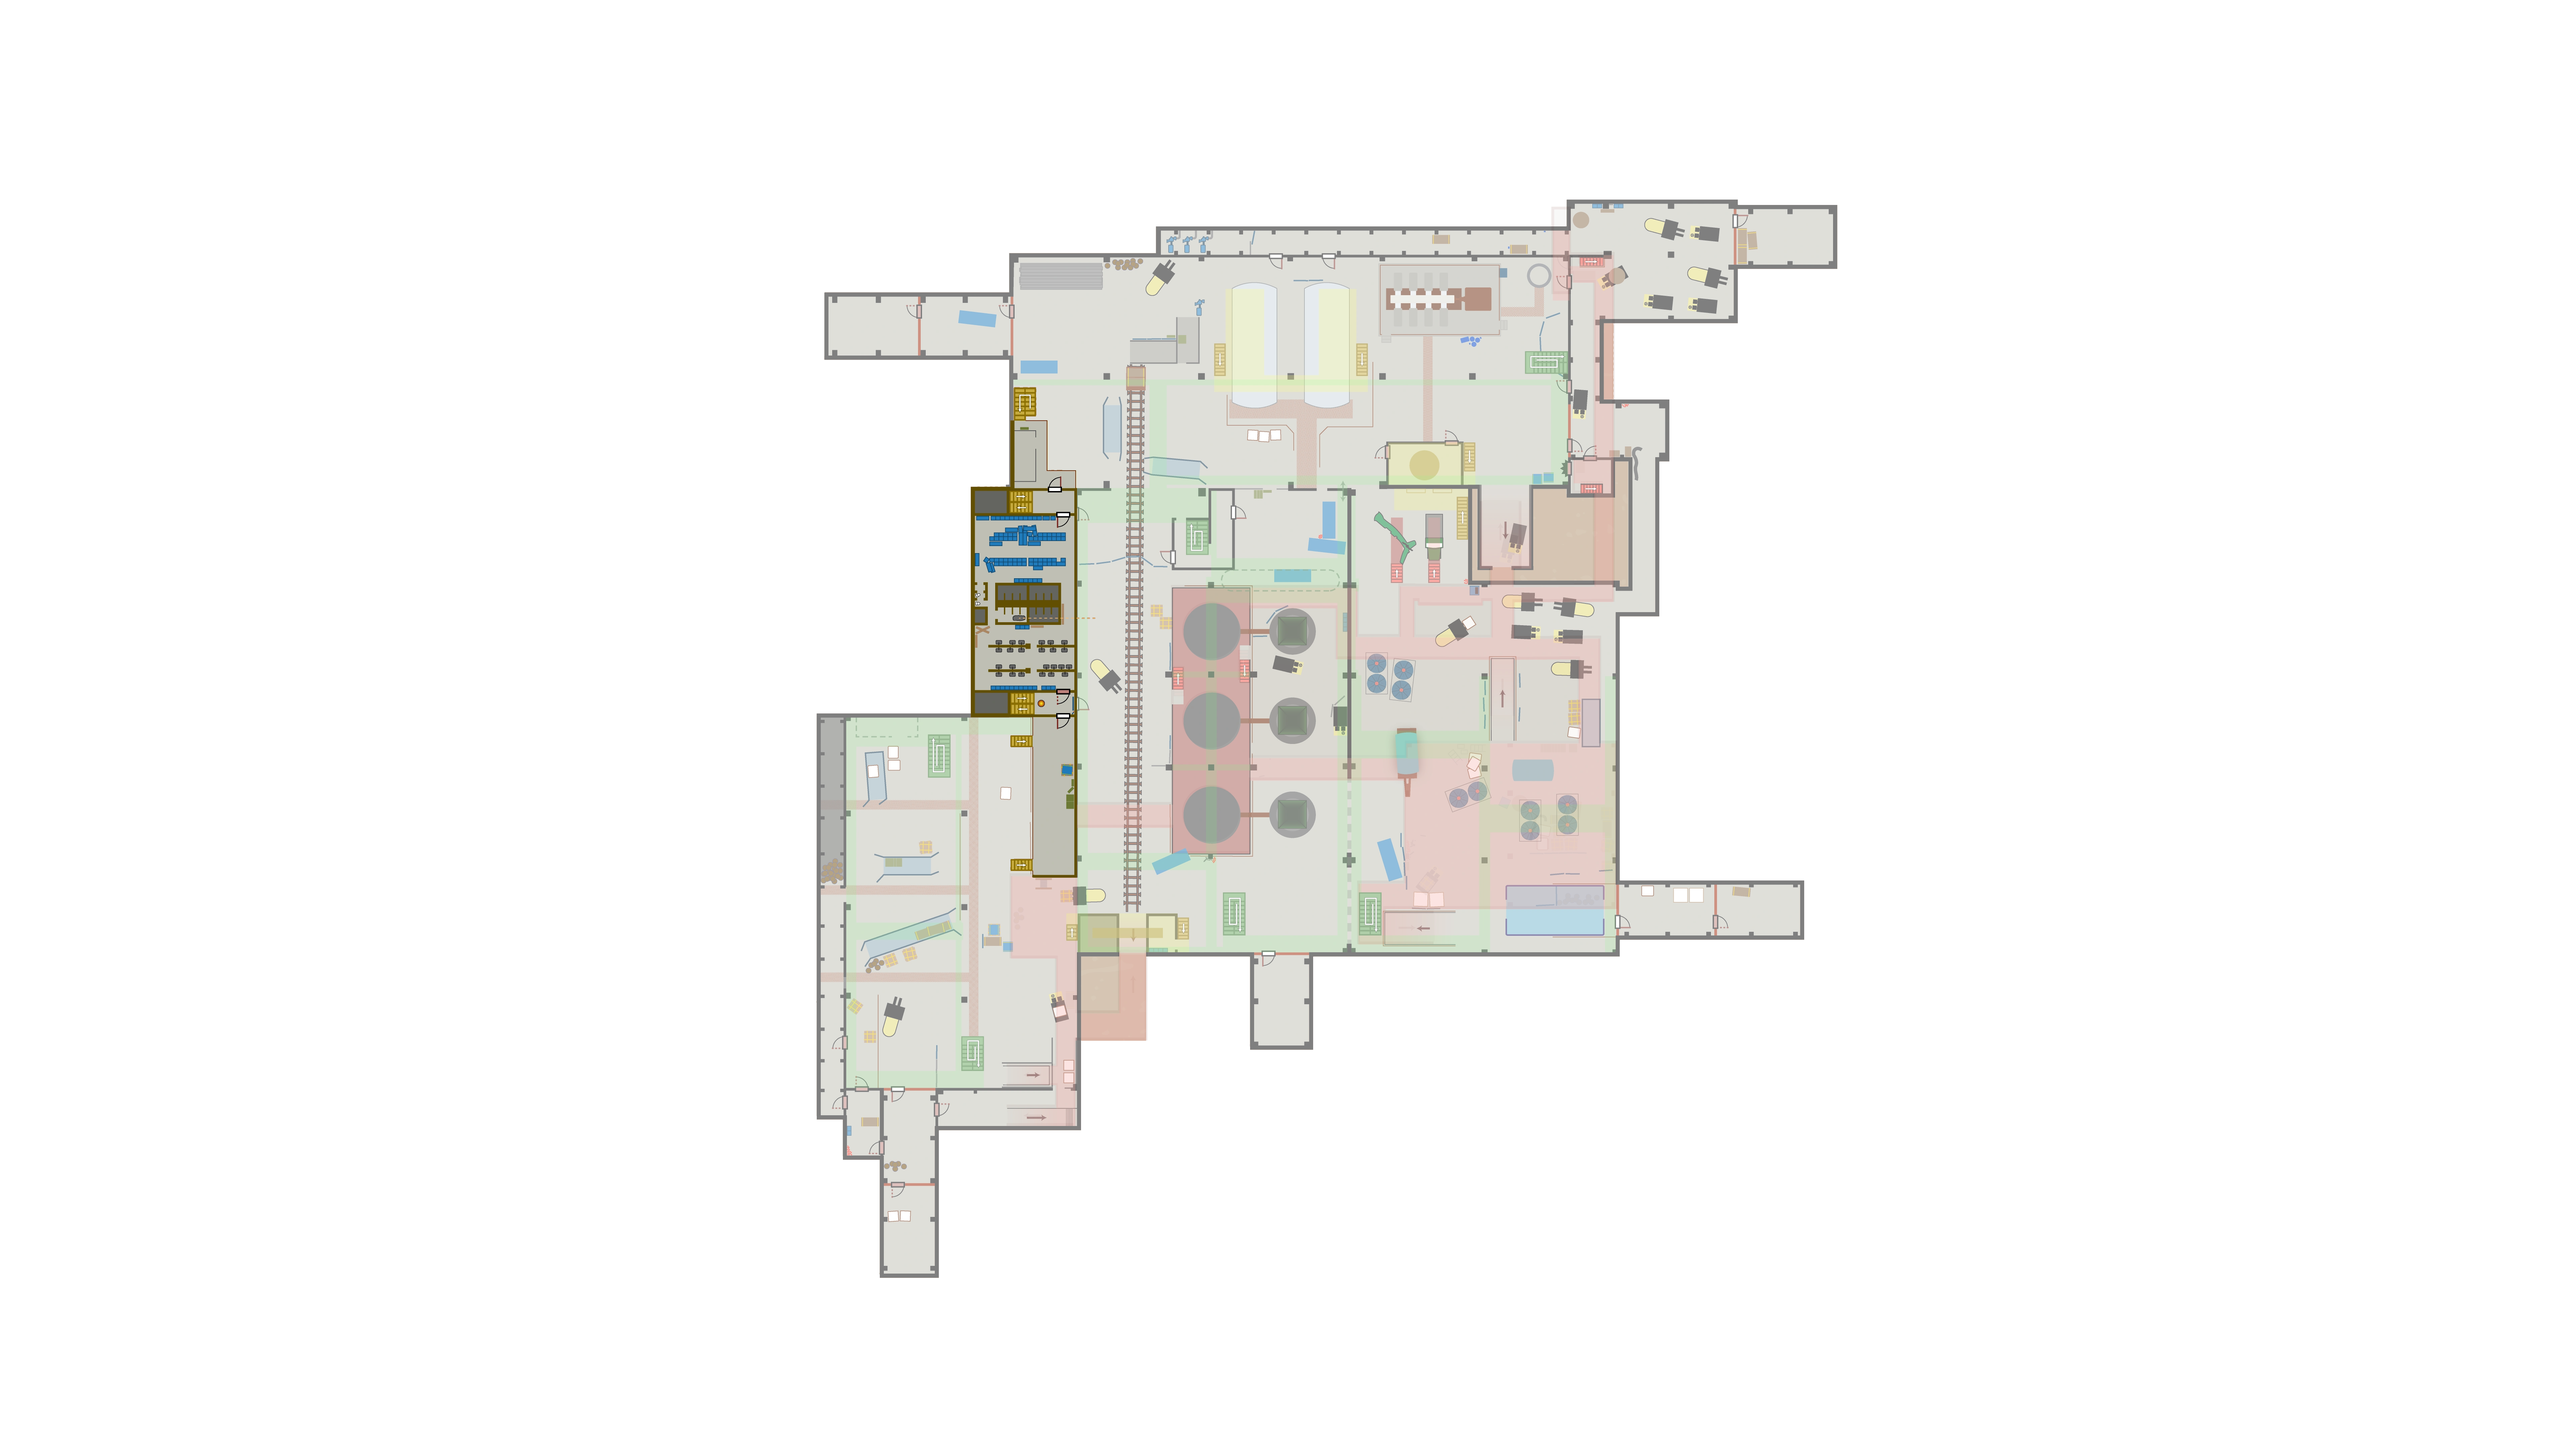
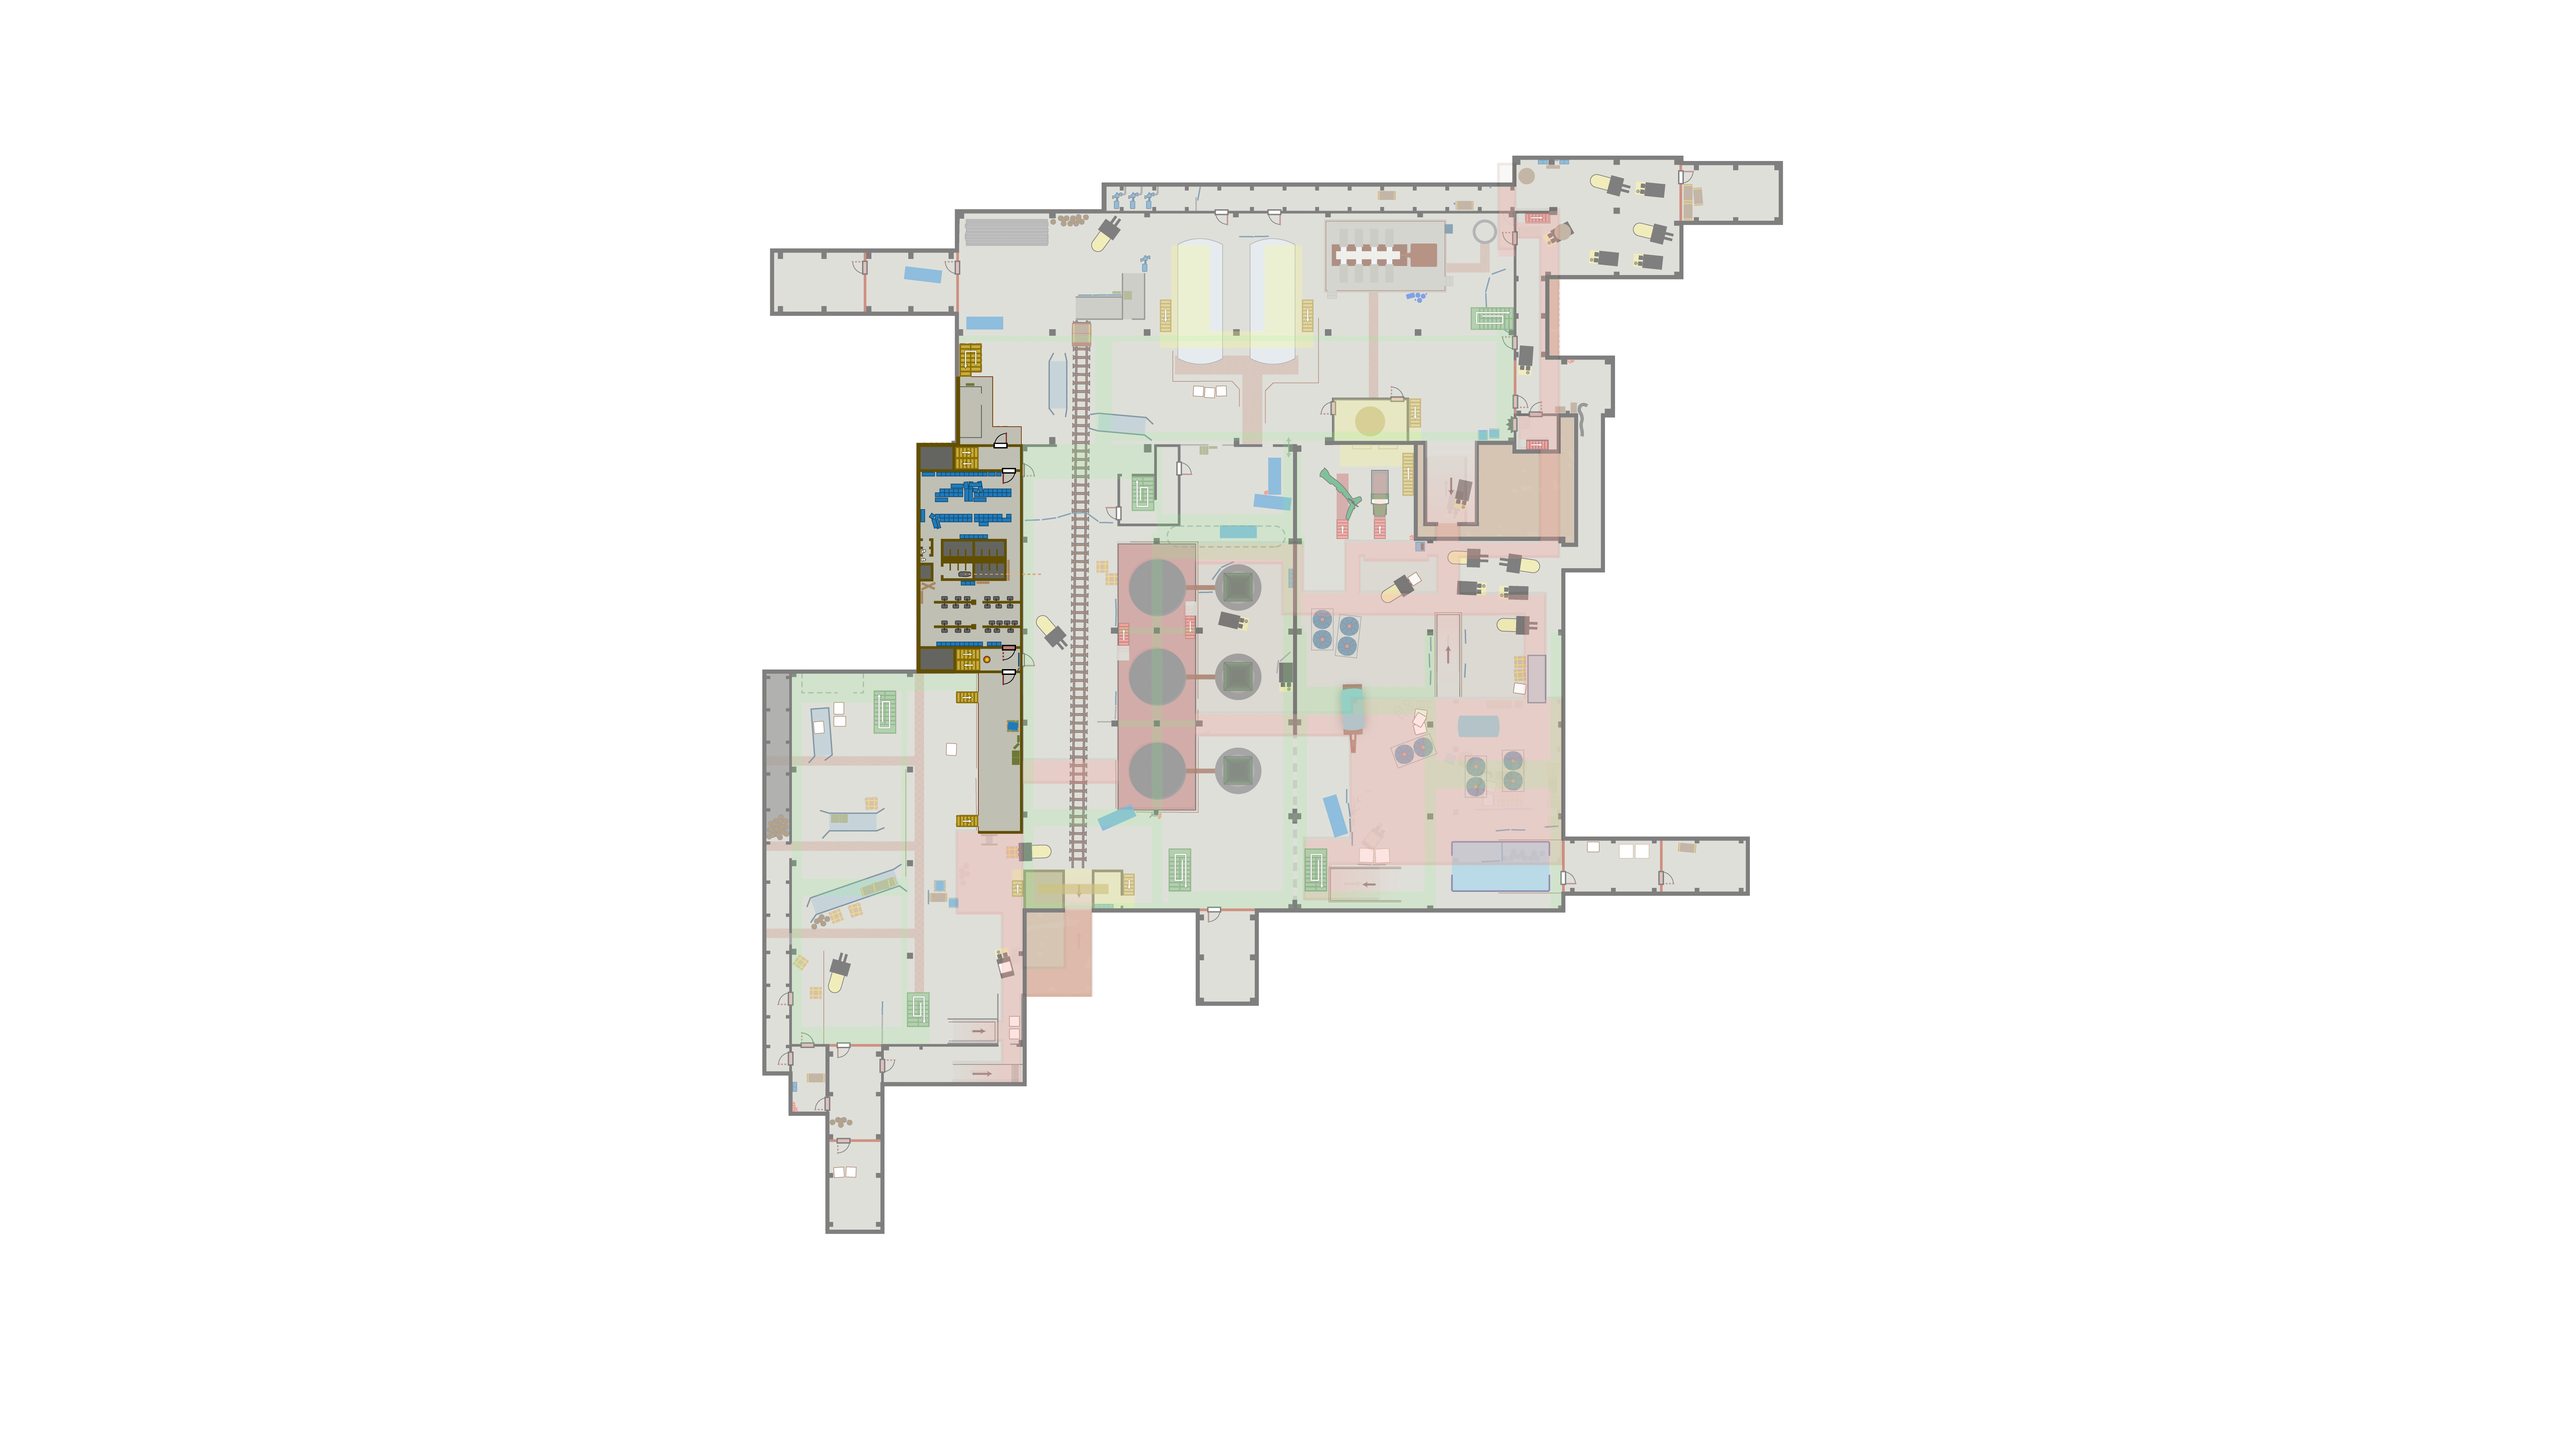
update

Changed region(s): [[0.2812, 0.0938, 0.7188, 0.9062]]

diff --git a/TKFtool.py b/TKFtool.py
@@ -36,11 +36,10 @@ class Map(pg.sprite.Sprite):
     def __init__(self,dir:str) -> None:
         super().__init__()
         self.dir=dir
-        self.image=pg.image.load(self.dir+"/1.png")
-        self.size=1
-        self.showimage=pg.transform.scale_by(self.image,self.size)
+        self.raw=pg.image.load(self.dir+"/1.png")
+        self.size=1.0
+        self.image=pg.transform.scale_by(self.raw,self.size)
         self.rect=self.image.get_rect()
-        self.MoveToMouse=False
 
     def move(self,x,y) -> None:
         '''向xy轴正半轴移动'''
@@ -52,22 +51,23 @@ class Map(pg.sprite.Sprite):
             self.size=0.09
         if self.size>1:
             self.size=1
-        oldwidth=self.showimage.get_width()
-        oldheight=self.showimage.get_height()
-        self.showimage=pg.transform.scale_by(self.image,self.size)
-        self.move((oldwidth-self.showimage.get_width())/2,(oldheight-self.showimage.get_height())/2)
+        oldwidth=self.image.get_width()
+        oldheight=self.image.get_height()
+        self.image=pg.transform.scale_by(self.raw,self.size)
+        self.rect=self.image.get_rect()
+        #self.move((oldwidth-self.image.get_width())/2,(oldheight-self.image.get_height())/2)
 
     def changeLevel(self,level):
-        self.image=pg.image.load(self.dir+"/"+str(level)+".png")
+        self.raw=pg.image.load(self.dir+"/"+str(level)+".png")
         rt=self.rect
         self.rect=self.image.get_rect()
         self.rect.center=rt.center
-        self.showimage=pg.image.load(self.dir+"/"+str(level)+".png")
-        self.showimage=pg.transform.scale_by(self.image,self.size)
+        self.image=pg.image.load(self.dir+"/"+str(level)+".png")
+        self.image=pg.transform.scale_by(self.raw,self.size)
         #self.move((oldwidth-self.showimage.get_width())7/2,(oldheight-self.showimage.get_height())/2)
 
     def update(self, target:pg.Surface) -> None:
-        target.blit(self.showimage,self.rect)
+        target.blit(self.image,self.rect)
         return super().update()
 
 
@@ -79,13 +79,13 @@ class Player(pg.sprite.Sprite):
         self.rect=self.image.get_rect()
         super().__init__()
     def update(self, target:pg.Surface, map:Map) -> None:
-        resize=map.size*-0.04#fuk
+        resize=map.size*22.7#fuk
         print("resize",resize)
         ps=getPosition()
         print("ps",ps)
         print("map",map.rect.center)
         print("asdf",ps[0][0]*resize)
-        self.rect.center=(map.rect.centerx+ps[0][0]*resize,map.rect.centery+ps[0][2]*resize)
+        self.rect.center=(map.rect.centerx-ps[0][2]*resize,map.rect.centery-ps[0][0]*resize)
         print(self.rect.center)
         target.blit(self.image,self.rect)
         return super().update()
@@ -153,7 +153,7 @@ if __name__ == '__main__':
     #初始化地图
     factory=Map("./maps/factory")
     factory.rect.center=[pg.display.get_surface().get_size()[0]/2,pg.display.get_surface().get_size()[1]/2]
-    #factory.resize(-0.8)
+    factory.resize(-0.8)
     #初始化鼠标
     mouse=Mouse()
     #初始化玩家
